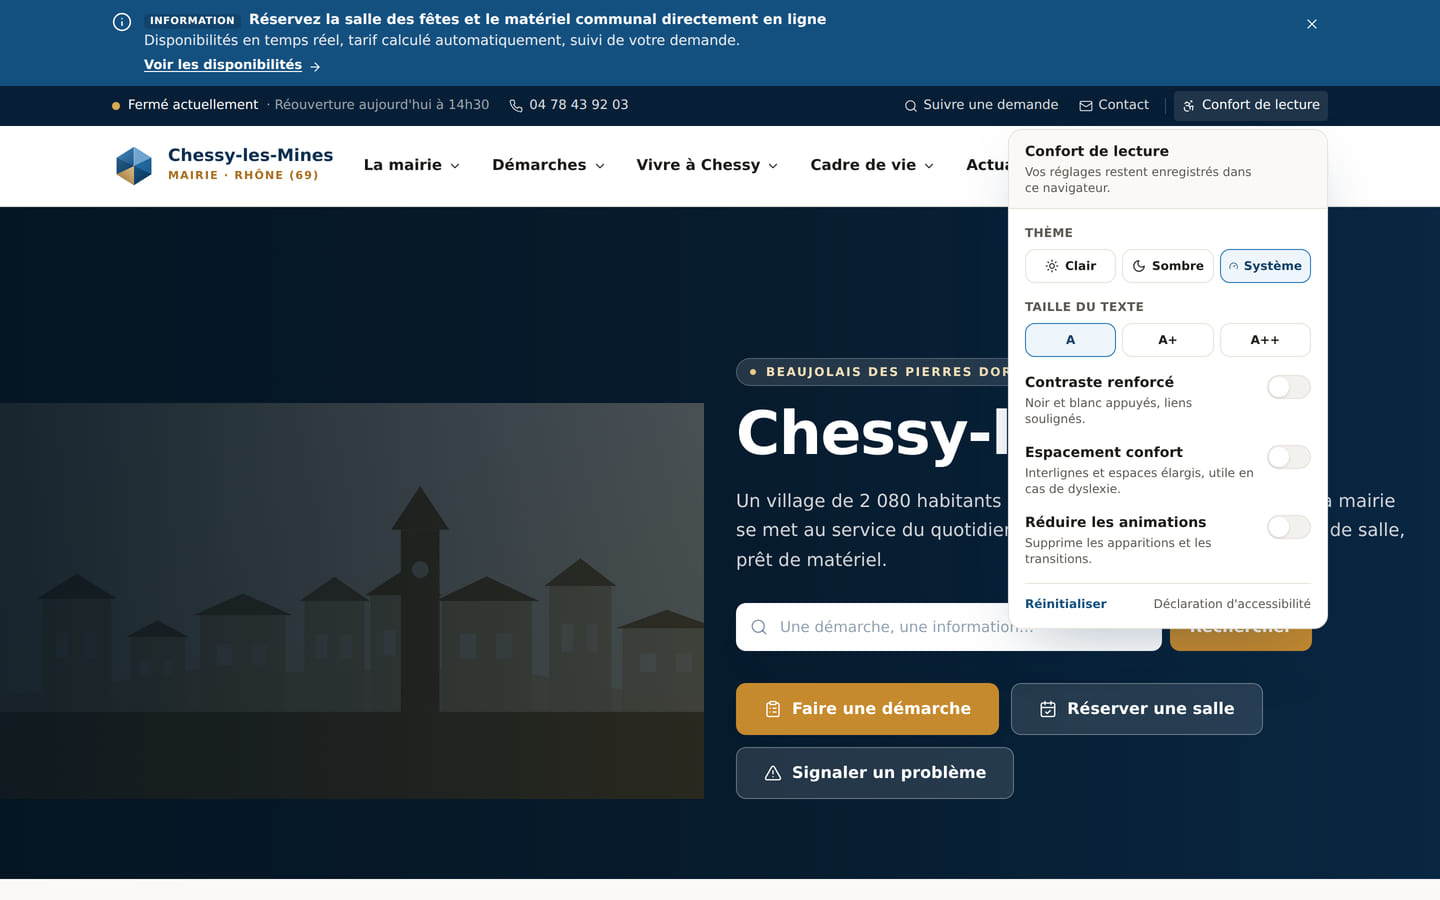
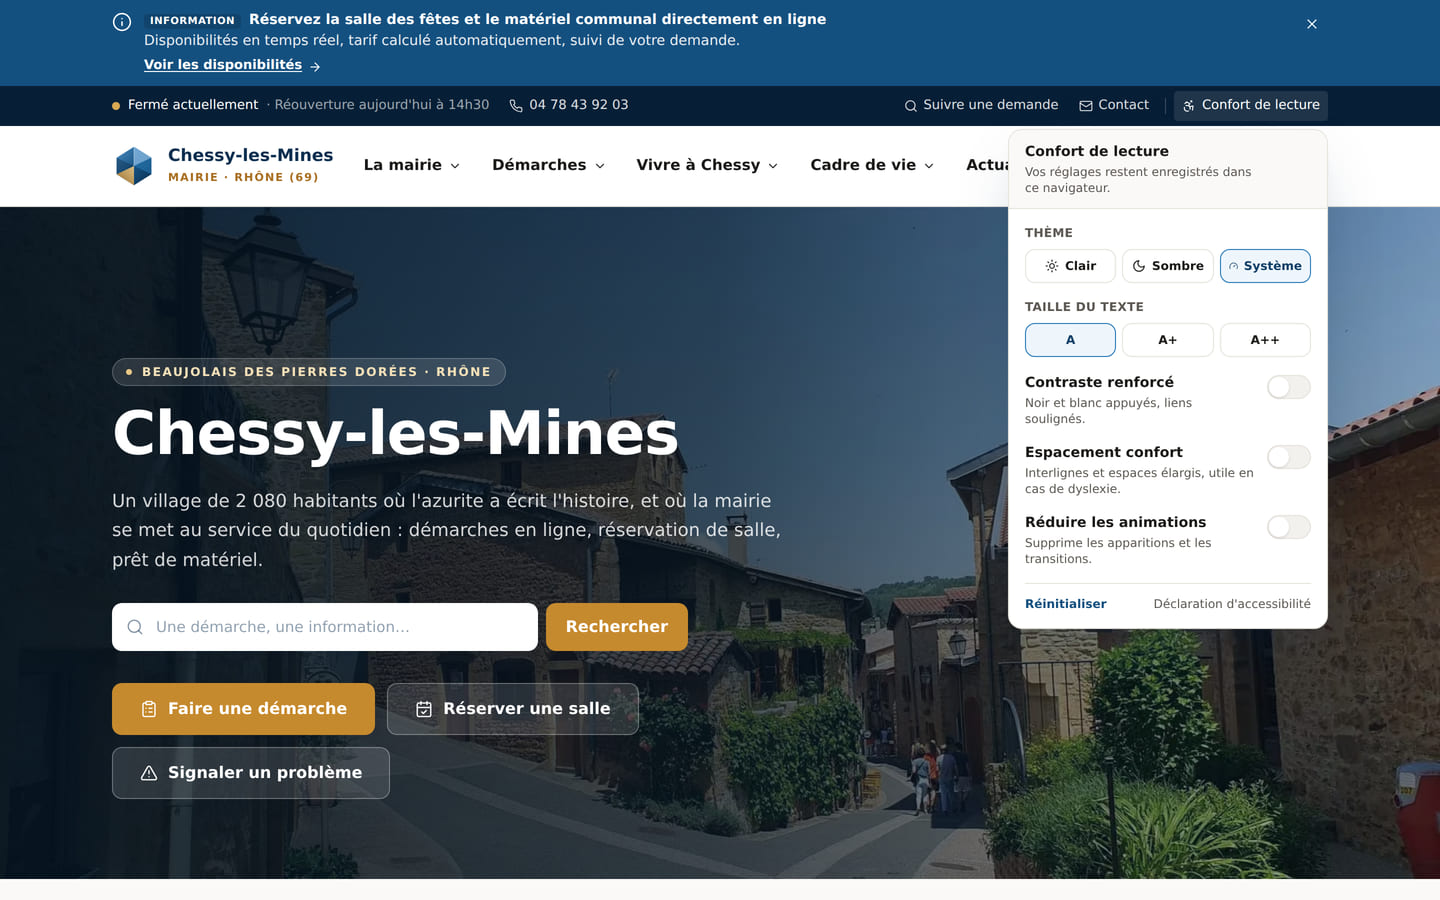
Intègre les premières photographies de la commune et répare le rendu des images
Photographies
- Trois clichés fournis par la commune — l'église et sa croix de pierre, le
  château, une ruelle du vieux bourg — rejoignent le projet dans
  public/photos/, redimensionnés et débarrassés de leurs métadonnées EXIF
  (position GPS, modèle d'appareil, à ne pas publier).
- prisma/data/photos.ts tient le registre de ces fichiers ; le seed les charge
  dans la médiathèque, où la mairie peut les réutiliser sur n'importe quelle
  page.
- Emplacements : la ruelle occupe le bandeau d'accueil, le château illustre la
  carte « L'église et le château », l'église ouvre la page Patrimoine et sa
  galerie. Les autres visuels restent des illustrations générées.

Rendu des images
- cn() se contentait de concaténer les classes : lorsqu'un composant posait une
  classe par défaut et que l'appelant en fournissait une concurrente, c'est
  l'ordre de la feuille de styles qui tranchait. Le conteneur d'image du
  bandeau restait ainsi « relative » au lieu d'« absolute », et s'affichait en
  1440x0 — aucun bandeau n'a jamais montré son image en pleine largeur.
- cn() passe par tailwind-merge : la classe de l'appelant l'emporte.
- Vérifié : bandeau mesuré à 1440x672 au lieu de 704x0, 0 échec sur 116 routes
  (dont 19 écrans d'administration), garde de rôle toujours active,
  typecheck, ESLint et les 14 cas d'assainissement au vert.

Claude-Session: https://claude.ai/code/session_01XCYT6TtZfBiitnJ8wcxeCb

diff --git a/prisma/data/pages.ts b/prisma/data/pages.ts
@@ -5,6 +5,7 @@
  * blocs. Tout est ensuite modifiable depuis le back-office : texte, images,
  * ordre des blocs, ajout ou suppression de sections.
  */
+import { photo } from "./photos";
 import { visuel } from "./reference";
 
 export type SeedBlock = { type: string; data: Record<string, unknown> };
@@ -48,7 +49,7 @@ const ACCUEIL: SeedPage = {
       title: "Chessy-les-Mines",
       subtitle:
         "Un village de 2 080 habitants où l'azurite a écrit l'histoire, et où la mairie se met au service du quotidien : démarches en ligne, réservation de salle, prêt de matériel.",
-      image: { url: visuel("village", "accueil-hero"), alt: "Vue du village de Chessy-les-Mines" },
+      image: photo("rues"),
       height: "grande",
       align: "left",
       showSearch: true,
@@ -161,7 +162,7 @@ const ACCUEIL: SeedPage = {
         {
           title: "L'église et le château",
           text: "Une église bâtie au XIIe siècle par les moines de Savigny, un château inscrit au titre des monuments historiques : la pierre dorée raconte le Beaujolais.",
-          image: { url: visuel("village", "carte-eglise"), alt: "Église du village" },
+          image: photo("chateau"),
           href: "/cadre-de-vie/patrimoine",
           badge: "Architecture",
         },
@@ -1528,7 +1529,7 @@ const CADRE: SeedPage[] = [
     icon: "Pickaxe",
     excerpt:
       "Deux mille ans d'exploitation du cuivre, l'azurite de Chessy, l'église du XIIe siècle et le château.",
-    cover: visuel("mine", "patrimoine-cover", "Patrimoine minier"),
+    cover: photo("eglise").url,
     seoDescription:
       "Histoire des mines de cuivre de Chessy-les-Mines, azurite dite chessylite, église du XIIe siècle et château inscrit : le patrimoine de la commune.",
     blocks: [
@@ -1537,7 +1538,7 @@ const CADRE: SeedPage[] = [
         title: "Chessy, la pierre bleue du Beaujolais",
         subtitle:
           "C'est ici qu'a été identifiée l'une des plus belles azurites du monde. Elle porte le nom du village : la chessylite.",
-        image: { url: visuel("mine", "hero-patrimoine"), alt: "Cristaux d'azurite" },
+        image: photo("eglise"),
         height: "moyenne",
         align: "left",
         showSearch: false,
@@ -1631,14 +1632,14 @@ const CADRE: SeedPage[] = [
       }),
       b("gallery", {
         title: "Le village en images",
-        subtitle: "Ces visuels de démonstration seront remplacés par les photographies de la commune.",
+        subtitle: "Les photographies de la commune ouvrent la galerie ; les visuels restants sont des illustrations de démonstration, à remplacer depuis la médiathèque.",
         layout: "mosaique",
         images: [
-          { image: { url: visuel("village", "galerie-1"), alt: "Le bourg" }, caption: "Le bourg et son église" },
+          { image: photo("eglise"), caption: "L'église et sa croix de pierre, la tour du château en arrière-plan" },
+          { image: photo("rues"), caption: "Une ruelle du vieux bourg en pierres dorées" },
+          { image: photo("chateau"), caption: "Le château et ses mâchicoulis" },
           { image: { url: visuel("mine", "galerie-2"), alt: "Galerie de mine" }, caption: "Mémoire des galeries" },
           { image: { url: visuel("paysage", "galerie-3"), alt: "Vignes" }, caption: "Les coteaux du Beaujolais" },
-          { image: { url: visuel("village", "galerie-4"), alt: "Ruelle" }, caption: "Ruelle en pierres dorées" },
-          { image: { url: visuel("paysage", "galerie-5"), alt: "Panorama" }, caption: "Panorama sur les monts" },
           { image: { url: visuel("mine", "galerie-6"), alt: "Azurite" }, caption: "L'azurite de Chessy" },
         ],
       }),

diff --git a/prisma/data/photos.ts b/prisma/data/photos.ts
@@ -1,0 +1,65 @@
+/**
+ * Photographies réelles de la commune.
+ *
+ * Contrairement aux visuels générés par `/api/visuel`, ces fichiers sont de
+ * véritables photographies déposées dans `public/photos/`. Ils sont versionnés
+ * avec le projet et chargés dans la médiathèque à l'installation, ce qui permet
+ * de les réutiliser depuis le back-office sur n'importe quelle page.
+ *
+ * Les métadonnées EXIF ont été retirées avant intégration : elles contiennent
+ * fréquemment la position GPS et le modèle d'appareil.
+ */
+
+export type Photo = {
+  /** Clé stable, utilisée pour référencer la photo depuis les pages. */
+  key: string;
+  filename: string;
+  url: string;
+  width: number;
+  height: number;
+  alt: string;
+  credit: string;
+  folder: string;
+};
+
+export const PHOTOS: Photo[] = [
+  {
+    key: "eglise",
+    filename: "eglise-de-chessy.jpg",
+    url: "/photos/eglise-de-chessy.jpg",
+    width: 2000,
+    height: 1500,
+    alt: "L'église de Chessy-les-Mines en pierres dorées, son auvent d'entrée et sa croix de pierre, avec la tour du château en arrière-plan",
+    credit: "Commune de Chessy-les-Mines",
+    folder: "patrimoine",
+  },
+  {
+    key: "rues",
+    filename: "rues-du-village.jpg",
+    url: "/photos/rues-du-village.jpg",
+    width: 1920,
+    height: 1080,
+    alt: "Ruelle du vieux bourg de Chessy-les-Mines bordée de maisons en pierres dorées, lanternes de fer forgé et façades fleuries",
+    credit: "Commune de Chessy-les-Mines",
+    folder: "village",
+  },
+  {
+    key: "chateau",
+    filename: "chateau-de-chessy.jpg",
+    url: "/photos/chateau-de-chessy.jpg",
+    width: 640,
+    height: 480,
+    alt: "Le château de Chessy-les-Mines, ses mâchicoulis et sa tour, éclairés par le soleil de fin de journée",
+    credit: "Commune de Chessy-les-Mines",
+    folder: "patrimoine",
+  },
+];
+
+export const PHOTO_BY_KEY = new Map(PHOTOS.map((p) => [p.key, p]));
+
+/** Référence d'image prête à être posée dans les données d'un bloc. */
+export function photo(key: string): { url: string; alt: string } {
+  const found = PHOTO_BY_KEY.get(key);
+  if (!found) throw new Error(`Photographie inconnue : ${key}`);
+  return { url: found.url, alt: found.alt };
+}

diff --git a/prisma/seed.ts b/prisma/seed.ts
@@ -12,6 +12,7 @@ import { PrismaClient } from "@prisma/client";
 import bcrypt from "bcryptjs";
 
 import { buildAlerts, buildDocuments, buildEvents, buildNews, NEWS_CATEGORIES } from "./data/editorial";
+import { PHOTOS } from "./data/photos";
 import { SEED_MENUS, SEED_PAGES, type SeedMenuItem } from "./data/pages";
 import {
   ASSOCIATIONS,
@@ -183,6 +184,25 @@ async function main(): Promise<void> {
     });
     mediaCache.set(cacheKey, created.id);
     return created.id;
+  }
+
+  // Photographies réelles de la commune, versionnées dans public/photos/.
+  // Elles rejoignent la médiathèque pour être réutilisables depuis le back-office.
+  for (const p of PHOTOS) {
+    await prisma.media.create({
+      data: {
+        filename: p.filename,
+        url: p.url,
+        mimeType: "image/jpeg",
+        size: 0,
+        width: p.width,
+        height: p.height,
+        alt: p.alt,
+        credit: p.credit,
+        folder: p.folder,
+        uploadedById: admin.id,
+      },
+    });
   }
 
   /* ------------------------------- Documents ----------------------------- */

diff --git a/src/lib/utils.ts b/src/lib/utils.ts
@@ -1,9 +1,16 @@
+import { twMerge } from "tailwind-merge";
+
 import { format, formatDistanceToNow, isSameDay } from "date-fns";
 import { fr } from "date-fns/locale";
 
 /** Concatène des classes CSS conditionnelles. */
 export function cn(...values: Array<string | false | null | undefined>): string {
-  return values.filter(Boolean).join(" ");
+  // twMerge arbitre les conflits : lorsqu'un composant pose une classe par
+  // défaut (« relative ») et que l'appelant en fournit une concurrente
+  // (« absolute »), c'est celle de l'appelant qui s'applique. Une simple
+  // concaténation laissait l'ordre de la feuille de styles trancher, avec des
+  // résultats imprévisibles.
+  return twMerge(values.filter(Boolean).join(" "));
 }
 
 /** Transforme un texte libre en identifiant d'URL. */

diff --git a/README.md b/README.md
@@ -112,7 +112,8 @@ Le back-office couvre l'ensemble de la vie du site :
 | Styles             | Tailwind CSS 4                                 | Charte centralisée, thème sombre et réglages d'accessibilité natifs    |
 | Base de données    | Prisma + SQLite (PostgreSQL en production)     | Installation immédiate, migration sans changement de code              |
 | Authentification   | Session signée (JWT `jose`) + `bcryptjs`       | Aucune dépendance à un service tiers                                   |
-| Illustrations      | Générateur SVG interne (`/api/visuel`)         | Site illustré dès l'installation, sans dépôt d'images lourdes          |
+| Photographies      | Fichiers de la commune dans `public/photos/`   | Versionnées, sans EXIF, servies via `next/image`                       |
+| Illustrations      | Générateur SVG interne (`/api/visuel`)         | Comble les emplacements sans photographie, sans dépôt d'images lourdes |
 | Cartographie       | Plan schématique dessiné à partir des données  | Aucun traceur tiers, fonctionne hors ligne, conforme RGPD              |
 | Courriels          | Interface `sendMail` à brancher                | Journalisés en console sans configuration : la démonstration est complète |
 
@@ -143,8 +144,11 @@ informations que seule la mairie détient, ou des décisions qui lui appartienne
    à compléter ». Aucun nom n'a été inventé.
 2. **Coordonnées des associations** — courriels, téléphones et référents sont à
    collecter auprès des présidents.
-3. **Photographies** — les visuels livrés sont des illustrations générées,
-   à remplacer par les photographies de la commune depuis la médiathèque.
+3. **Photographies** — trois photographies de la commune (l'église, le
+   château, une ruelle du bourg) sont intégrées et occupent les emplacements
+   les plus visibles ; elles sont dans `public/photos/` et dans la médiathèque.
+   Les autres visuels restent des illustrations générées, à remplacer au fil
+   des prises de vue depuis la médiathèque.
 4. **Documents PDF** — les fichiers installés sont des documents de
    démonstration ; les bulletins et comptes rendus réels doivent être téléversés.
 5. **Mots de passe** des trois comptes de démonstration, à changer
